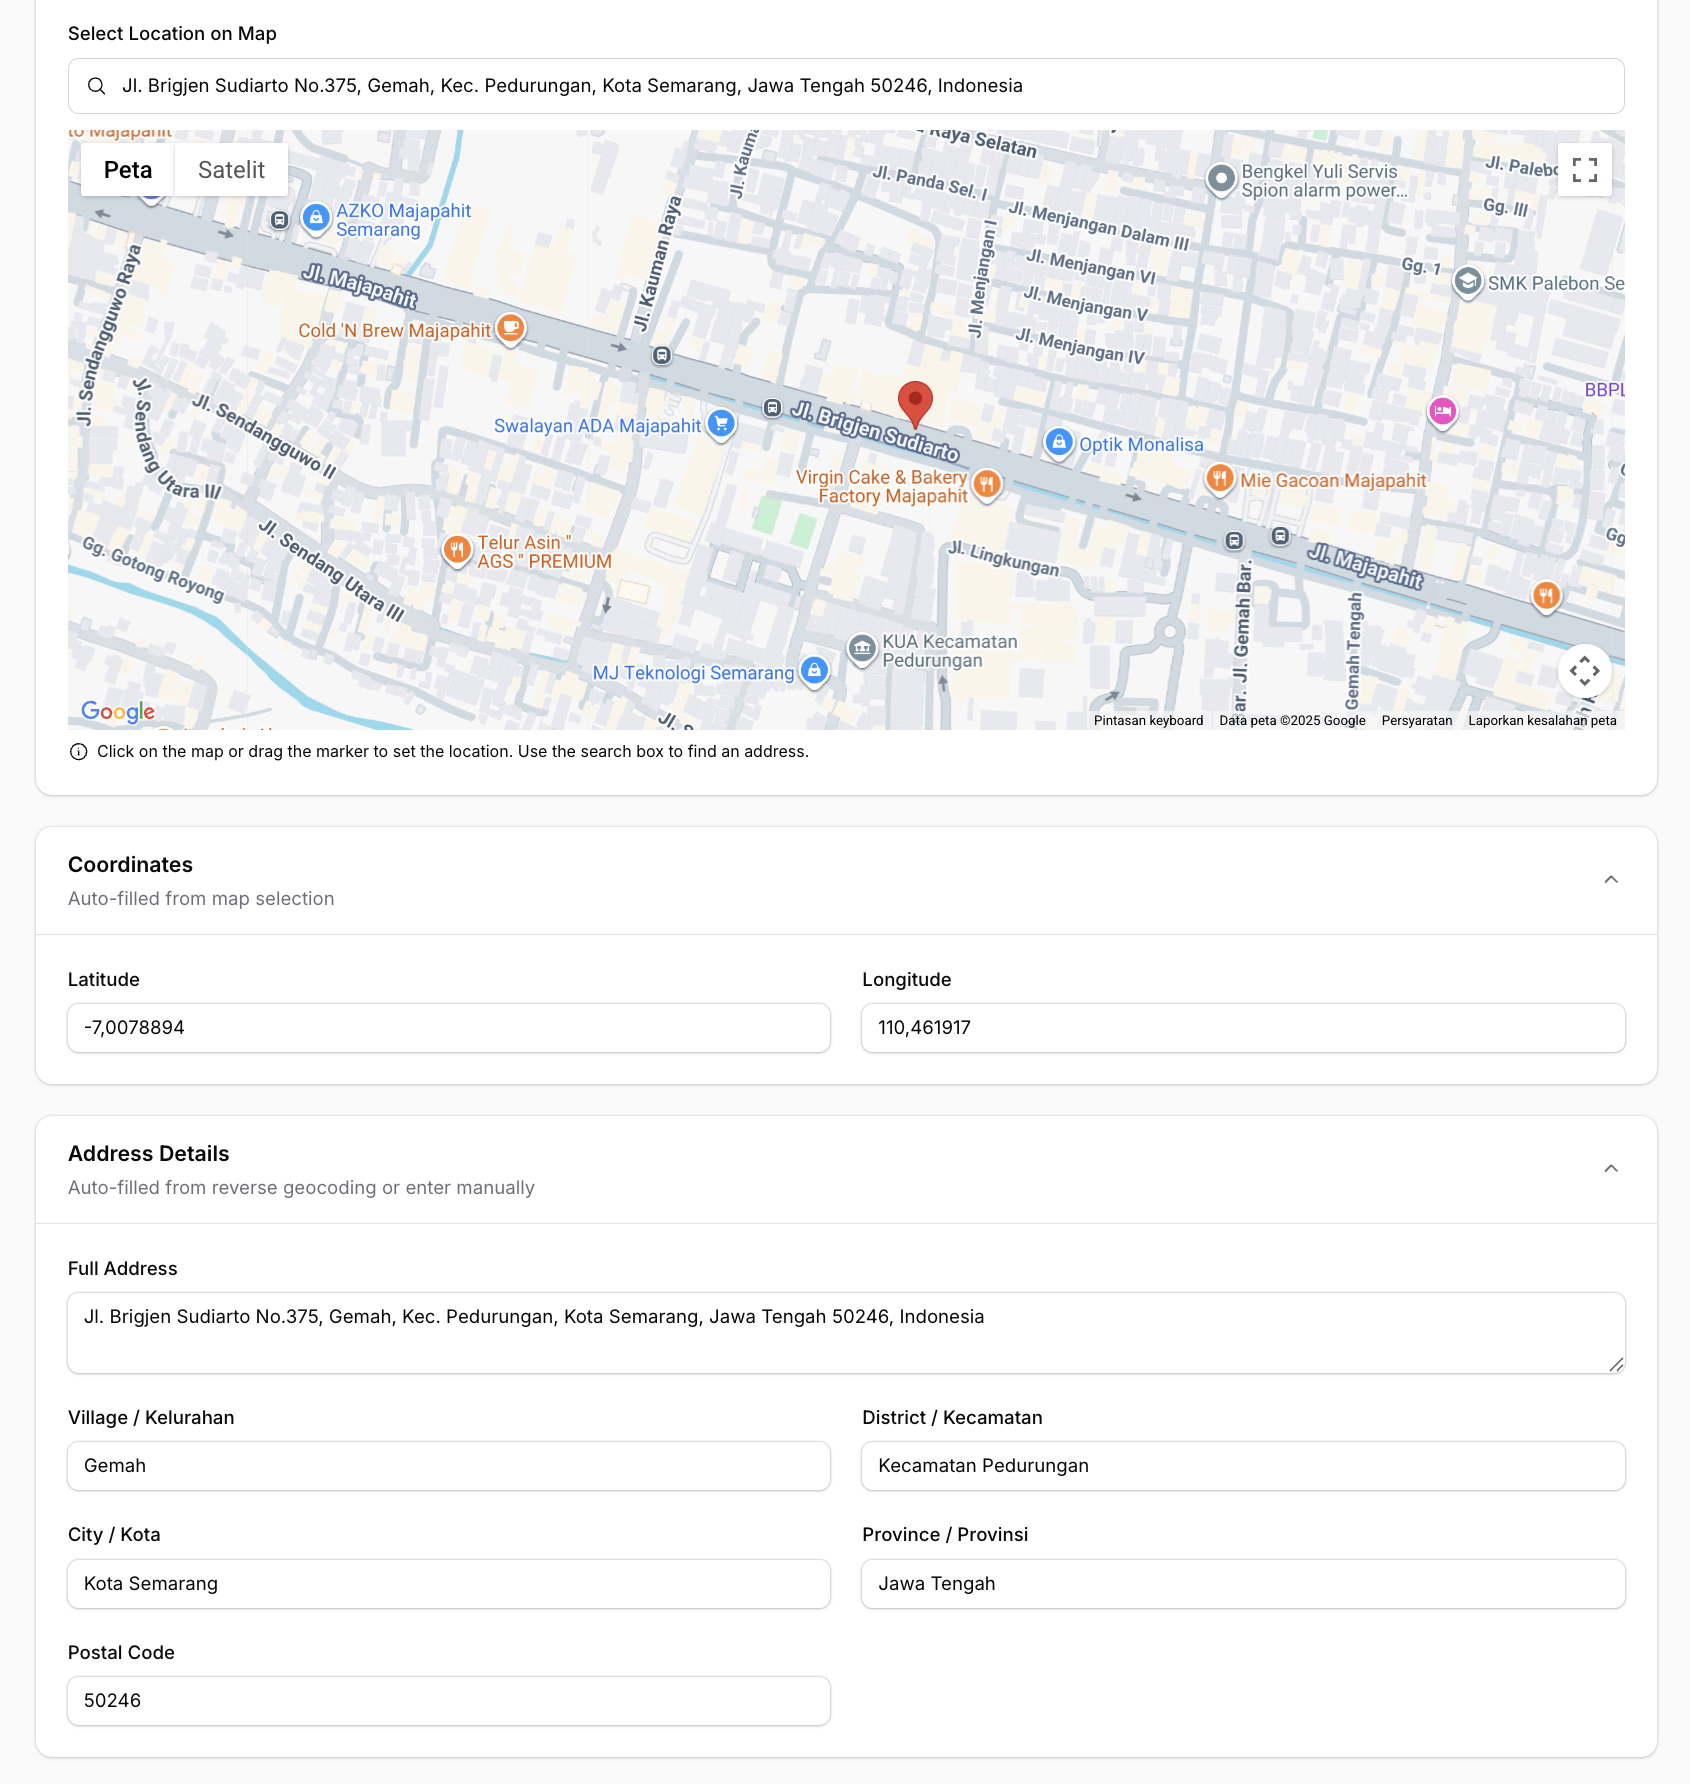
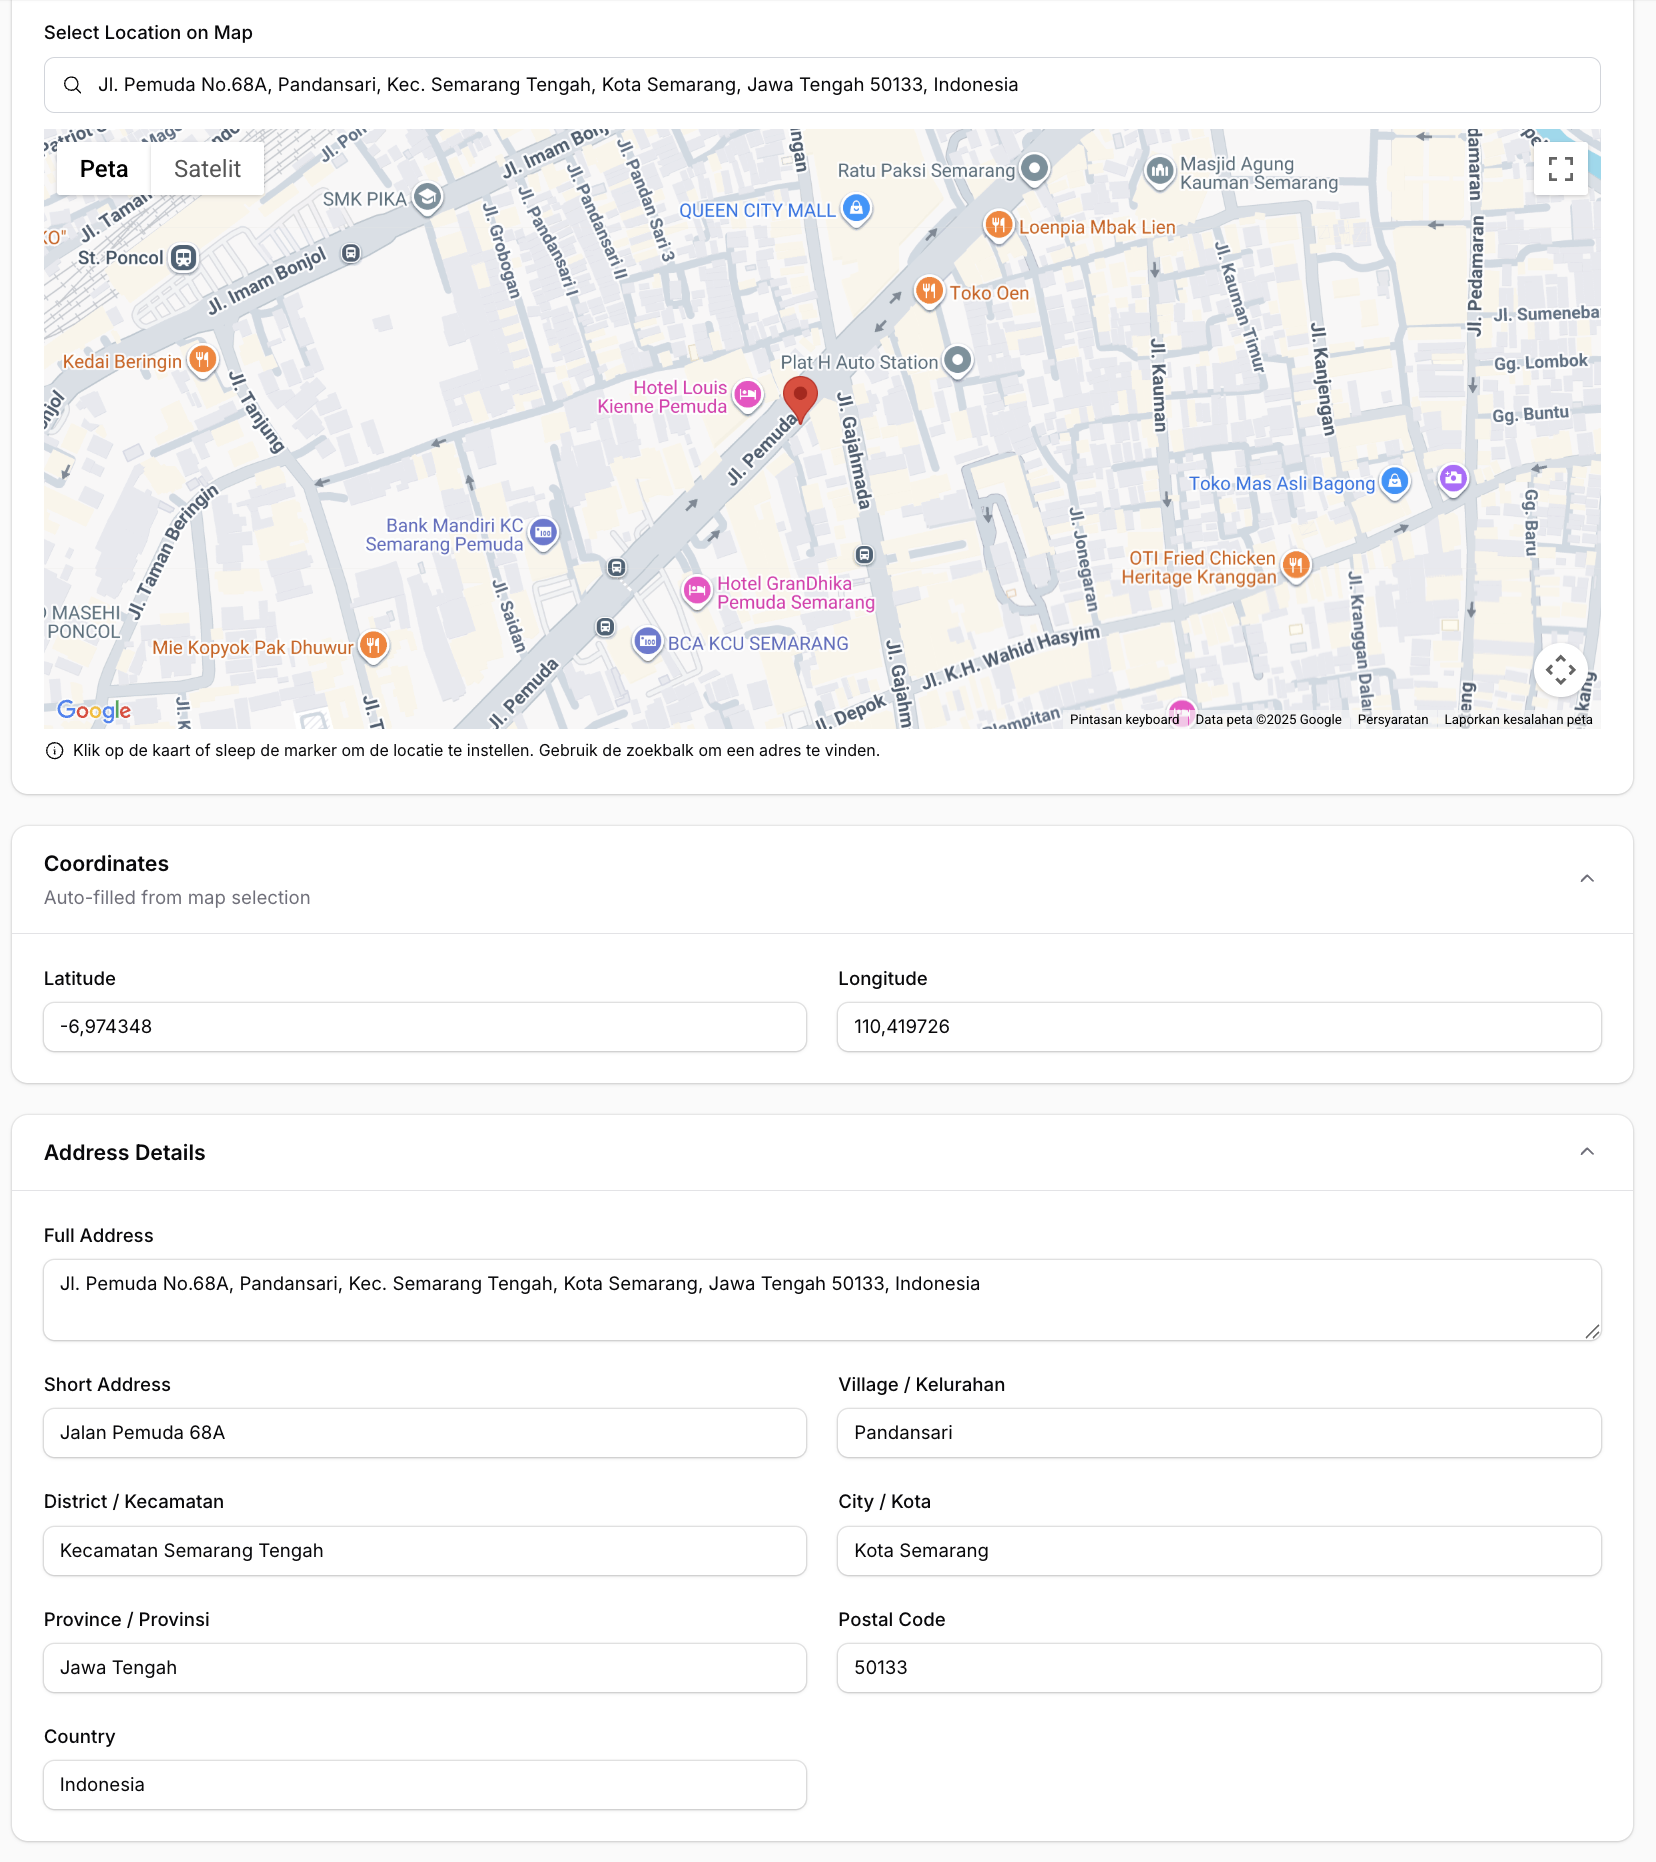
Update Filament Pinpoint plugin to v1.1.1
- Add multi-language support (EN, AR, NL, ID)
  - Add PinpointEntry component for Infolists
  - Add shortAddressField() and countryField() methods
  - Update screenshots

diff --git a/content/plugins/fahiem-pinpoint.md b/content/plugins/fahiem-pinpoint.md
@@ -2,14 +2,16 @@
 name: Pinpoint
 slug: fahiem-pinpoint
 author_slug: fahiem
-categories: [form-field]
-description: Google Maps location picker component with search, draggable marker, and reverse geocoding for address components (province, city, district, postal code).
+categories: [form-field, infolist-entry]
+description: Google Maps location picker component with search, draggable marker, reverse geocoding, and multi-language support (EN, AR, NL, ID).
 discord_url:
 docs_url: https://github.com/fahiem152/filament-pinpoint#readme
 github_repository: fahiem152/filament-pinpoint
 has_dark_theme: true
-has_translations: false
-image: fahiem-pinpoint.png
+has_translations: true
+images:
+    - fahiem-pinpoint.png
+    - fahiem-pinpoint-viewer.png
 versions: [4]
 publish_date: 2025-12-07
 ---
@@ -24,11 +26,20 @@ A Google Maps location picker component for **Filament 4** with search, draggabl
 - **Current location** - Get user's current device location
 - **Reverse geocoding** - Auto-fill address fields from coordinates
 - **Dark mode support** - Fully compatible with Filament's dark mode
+- **Multi-language support** - Translations for EN, AR, NL, ID
+- **Infolist Entry** - Read-only map display for view pages
 - **Fully configurable** - Customize height, zoom, default location, and more
 
-## v1.1.0 - Address Components
+## v1.1.1 - Multi-language & Infolist Entry
 
-New in version 1.1.0, you can now auto-fill detailed address components:
+New in version 1.1.1:
+
+- **Multi-language support** with translations for English, Arabic, Dutch, and Indonesian
+- **PinpointEntry** component for Infolists (read-only map display)
+- `shortAddressField()` - Auto-fill short address (premise + route + street number)
+- `countryField()` - Auto-fill country name
+
+## v1.1.0 - Address Components
 
 - `provinceField()` - Auto-fill province/state
 - `cityField()` - Auto-fill city/county
@@ -73,10 +84,26 @@ Pinpoint::make('location')
     ->latField('lat')
     ->lngField('lng')
     ->addressField('address')
+    ->shortAddressField('short_address')
     ->provinceField('province')
     ->cityField('city')
     ->districtField('district')
     ->villageField('village')
     ->postalCodeField('postal_code')
+    ->countryField('country')
+    ->columnSpanFull()
+```
+
+## Infolist Entry (Read-Only)
+
+```php
+use Fahiem\FilamentPinpoint\PinpointEntry;
+
+PinpointEntry::make('location')
+    ->label('Location')
+    ->latField('lat')
+    ->lngField('lng')
+    ->defaultZoom(15)
+    ->height(400)
     ->columnSpanFull()
 ```
